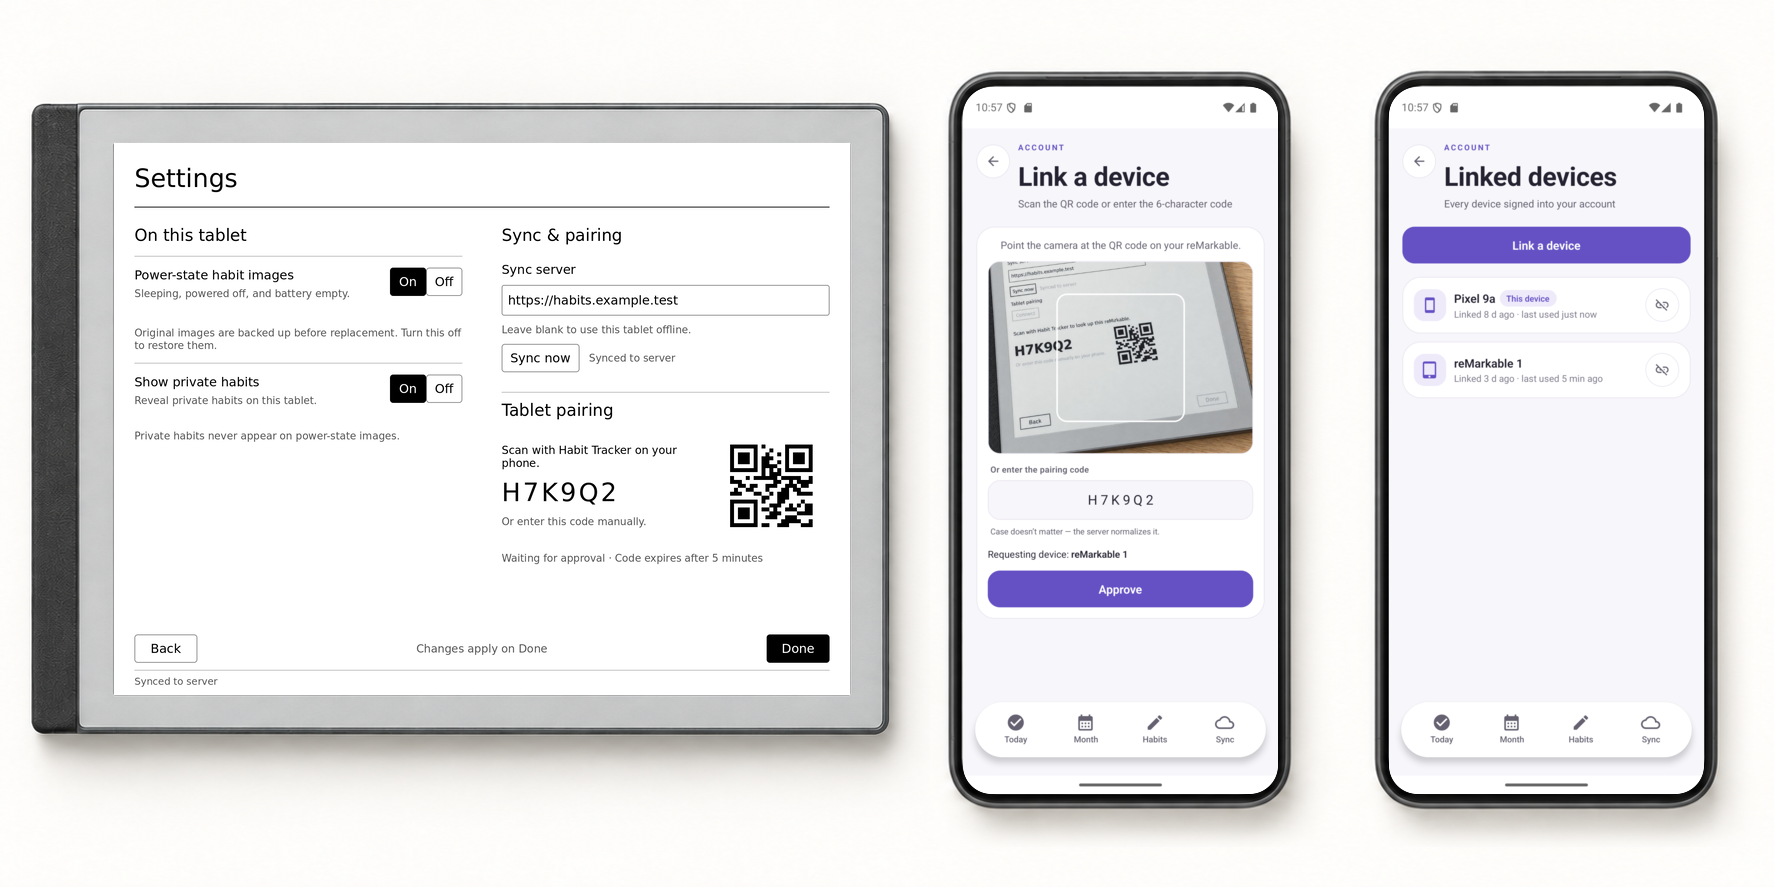
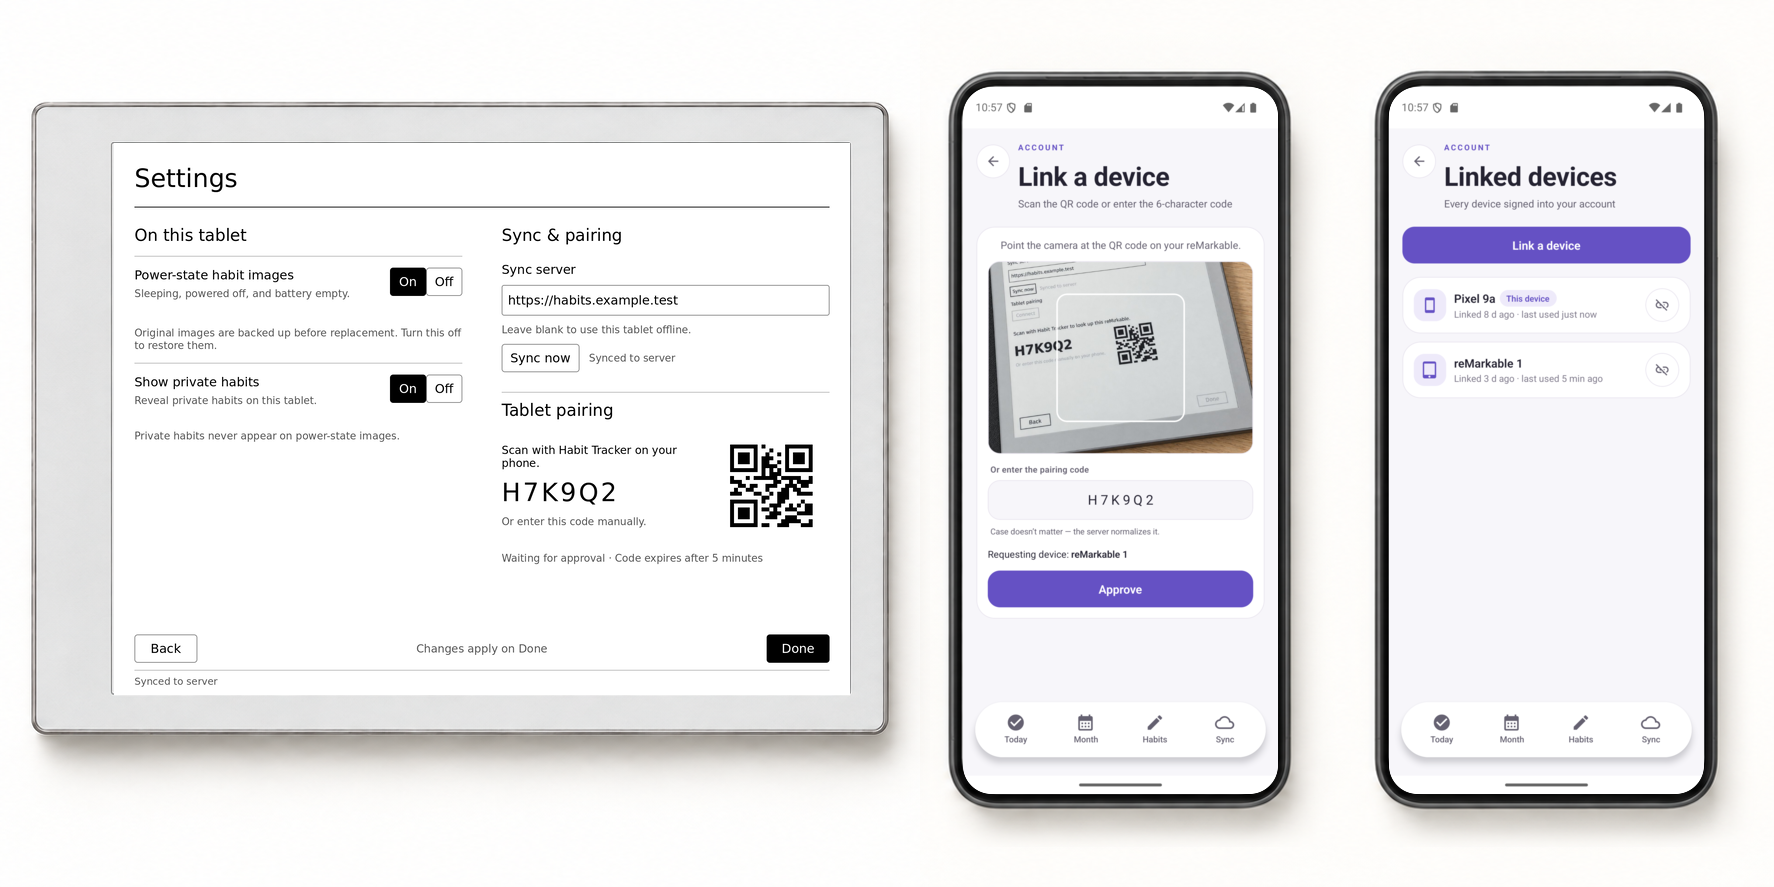
docs: use minimal white reMarkable screenshot frame
Apply the selected Paper Pro-inspired white surround to all nine reMarkable screenshots and the device-linking illustration. Retain the frame concepts and generation prompts, and document the reusable frame source.

Changed region(s): [[0.0, 0.0913, 0.5271, 0.8523]]

diff --git a/docs/assets/device-frames/variations/README.md b/docs/assets/device-frames/variations/README.md
@@ -1,0 +1,31 @@
+# reMarkable screenshot frame concepts
+
+Generated with the built-in imagegen tool. These are design previews; screenshot pixels are synthesized, so the chosen frame should be integrated with the original screenshot via the existing compositor before publishing.
+
+Hardware references:
+- [reMarkable 1 photograph](https://www.ebay.com/itm/146892029187)
+- [Official reMarkable 2 / Paper Pro comparison](https://remarkable.com/clp/remarkable-paper-pro-vs-remarkable-2)
+
+## 1. remarkable-1
+
+![Concept](remarkable-1.png)
+
+Prompt:
+
+Use case: compositing. Create a beautiful but hardware-faithful screenshot mockup of the specified REAL reMarkable tablet. Input 1 is the screen insert: preserve this exact habit-tracker screenshot, all text, marks, spacing and full 4:3 content. Input 2 is the actual hardware reference, use its real silhouette, bezel widths, materials and controls, not an invented tablet. Rotate the physical portrait tablet 90 degrees CLOCKWISE into landscape, but the inserted app screenshot stays upright landscape. Perfectly straight-on front view with zero perspective. Pure white background. Frame fills most of the canvas with 4% whitespace, crisp precise edges, soft restrained studio shadow, professional README product imagery. Single tablet only, no stylus, hands, folio, labels, captions, additional words or props. Do not copy any reference image screen content. Model reMarkable 1. White plastic body, modest rounded outer corners, square screen corners, generous white bezels. Exactly THREE widely spaced small square physical buttons along the LEFT short edge in landscape: one near its upper end, one at center, one near lower end, matching the reference after rotation. Do not cluster the buttons in the middle. No dark spine, no metallic bezel. Bright clean rendition of the original white hardware, with subtle depth.
+
+## 2. remarkable-2
+
+![Concept](remarkable-2.png)
+
+Prompt:
+
+Use case: compositing. Create a beautiful but hardware-faithful screenshot mockup of the specified REAL reMarkable tablet. Input 1 is the screen insert: preserve this exact habit-tracker screenshot, all text, marks, spacing and full 4:3 content. Input 2 is the actual hardware reference, use its real silhouette, bezel widths, materials and controls, not an invented tablet. Rotate the physical portrait tablet 90 degrees CLOCKWISE into landscape, but the inserted app screenshot stays upright landscape. Perfectly straight-on front view with zero perspective. Pure white background. Frame fills most of the canvas with 4% whitespace, crisp precise edges, soft restrained studio shadow, professional README product imagery. Single tablet only, no stylus, hands, folio, labels, captions, additional words or props. Do not copy any reference image screen content. Model reMarkable 2, the REAR device in reference image 2, NOT the front Paper Pro. White/light gray bezel and thin satin silver outer body. Its characteristic darker gray metal spine runs along the TOP LONG edge in this clockwise-rotated landscape view, not the left short edge. Original portrait bottom chin becomes the wider LEFT short bezel. No front physical buttons, no camera, no black leather. Accurate proportions and subtle tiny corner radii.
+
+## 3. remarkable-paper-pro
+
+![Concept](remarkable-paper-pro.png)
+
+Prompt:
+
+Use case: compositing. Create a beautiful but hardware-faithful screenshot mockup of the specified REAL reMarkable tablet. Input 1 is the screen insert: preserve this exact habit-tracker screenshot, all text, marks, spacing and full 4:3 content. Input 2 is the actual hardware reference, use its real silhouette, bezel widths, materials and controls, not an invented tablet. Rotate the physical portrait tablet 90 degrees CLOCKWISE into landscape, but the inserted app screenshot stays upright landscape. Perfectly straight-on front view with zero perspective. Pure white background. Frame fills most of the canvas with 4% whitespace, crisp precise edges, soft restrained studio shadow, professional README product imagery. Single tablet only, no stylus, hands, folio, labels, captions, additional words or props. Do not copy any reference image screen content. Model reMarkable Paper Pro, the FRONT device in reference image 2. Slim pale warm-gray bezel, light aluminum perimeter with subtly layered machined edge, small rounded outer corners, original portrait bottom chin becomes a slightly wider LEFT short bezel in landscape. No contrasting dark side spine, no physical front buttons, no camera. Faithful Paper Pro design with elegant warm silver finish. Keep monochrome app screenshot as supplied.

diff --git a/docs/assets/device-frames/variations/selected-frame-prompt.md b/docs/assets/device-frames/variations/selected-frame-prompt.md
@@ -1,0 +1,12 @@
+# Selected white frame
+
+Selected: Paper Pro-inspired surround, for its minimal white finish.
+
+Generated with the built-in imagegen tool from the original blank device-family source and
+`remarkable-paper-pro.png` as the style reference. The generated tablet region was integrated
+into the existing source, retaining the original phone pixels. The existing compositor inserts
+the real screenshots into the blank display windows.
+
+## Prompt
+
+Use case: precise-object-edit. Edit input 1 (the three-device blank frame source) by changing ONLY the left tablet housing to match the minimalist white reMarkable Paper Pro-style surround in input 2. Input 2 is a style reference only; DO NOT copy its app UI. Keep input 1 composition, exact canvas 1774x887 pixels, all device positions and sizes. The tablet's blank rectangular screen must remain EXACTLY at x=114 y=143 width=736 height=552 (4:3) with square corners, no rounding. Tablet outer bounds stay x=31 y=104 to x=889 y=734. Replace dark left grip and heavy metal bezel with continuous clean matte white/light-gray bezel, slender subtle silver outer edge, subtly rounded outer corners and refined gentle shadow. The left short bezel can be wider. No dark stripe, no buttons, no logo, no text. Leave both right-side graphite phone frames and their blank screens completely untouched, including shadows. White background. All three screens remain completely blank. Priority: precise screen placement and beautiful minimal WHITE frame. Do not change the tablet into a thin black outline; keep a visible calm white material surround.

diff --git a/docs/assets/device-frames/README.md b/docs/assets/device-frames/README.md
@@ -1,7 +1,7 @@
 # Device-frame source
 
 `device-family-source.png` is retained AI-generated artwork used by the README linking concept. It
-combines the selected original-inspired reMarkable frame with the selected minimal graphite phone
+combines the selected minimal white Paper Pro-inspired reMarkable frame with the minimal graphite phone
 frames. The display interiors are intentionally blank: real application pixels are added by the
 deterministic compositor.
 
@@ -10,3 +10,7 @@ contains screen-window coordinates calibrated to this file: every reMarkable win
 and every Android window is exactly 45:101, matching the raw captures without cropping, stretching,
 or gutters. The compositor replaces only those windows, so device texture, lighting, and shadows
 remain stable in every generated image.
+
+The white tablet surround was selected from the [frame variations](variations/README.md). It is
+decorative presentation artwork, not an indication that the app supports Paper Pro hardware.
+Only the tablet region was replaced; the phone artwork and calibrated display windows were retained.

diff --git a/tools/readme-screenshots/README.md b/tools/readme-screenshots/README.md
@@ -10,7 +10,7 @@ Raw captures remain under `docs/assets/screenshots/` so they can be inspected wi
 effects. Their README-ready copies live under `docs/assets/screenshots/framed/`.
 
 The frame source is the retained AI-generated
-`docs/assets/device-frames/device-family-source.png`, combining the selected original-inspired
+`docs/assets/device-frames/device-family-source.png`, combining the selected minimal white Paper Pro-inspired
 reMarkable frame and minimal graphite phone frame. Its calibrated windows exactly match the native
 captures: 4:3 for reMarkable and 45:101 for 1080x2424 Android screenshots. The compositor crops the
 tablet or phone shell, blanks its screen pixels, fits the current capture without cropping,
